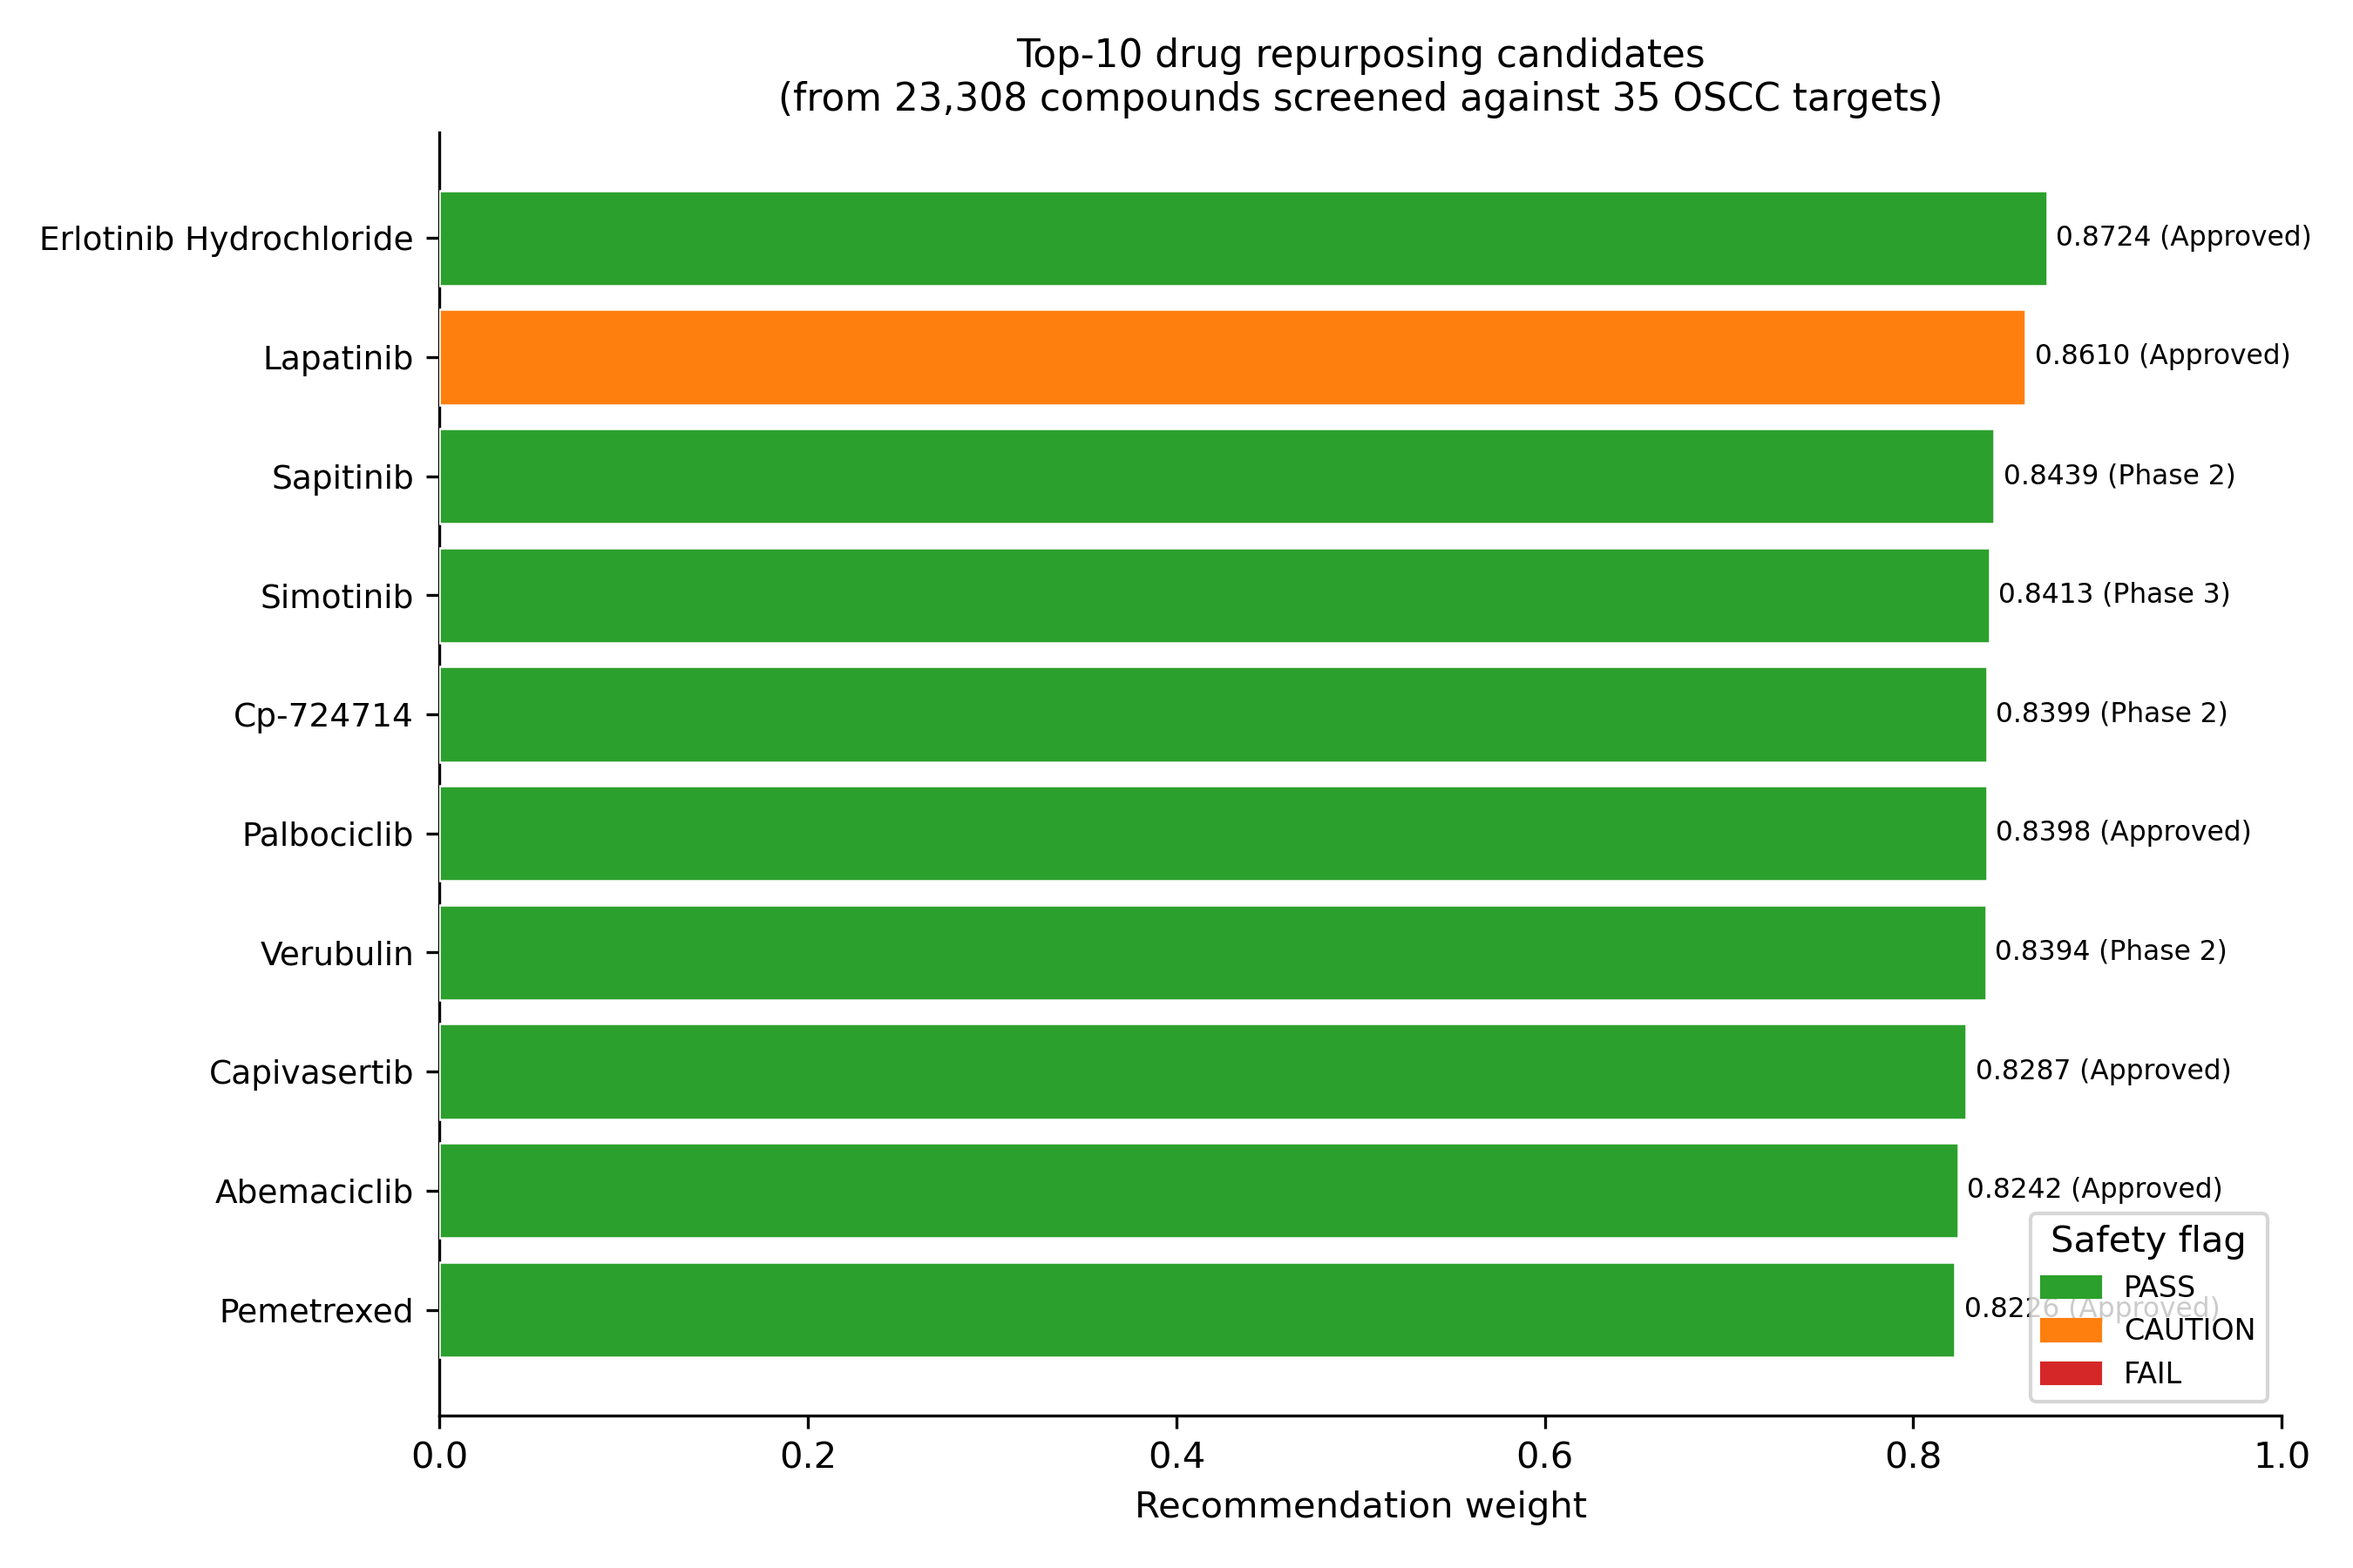
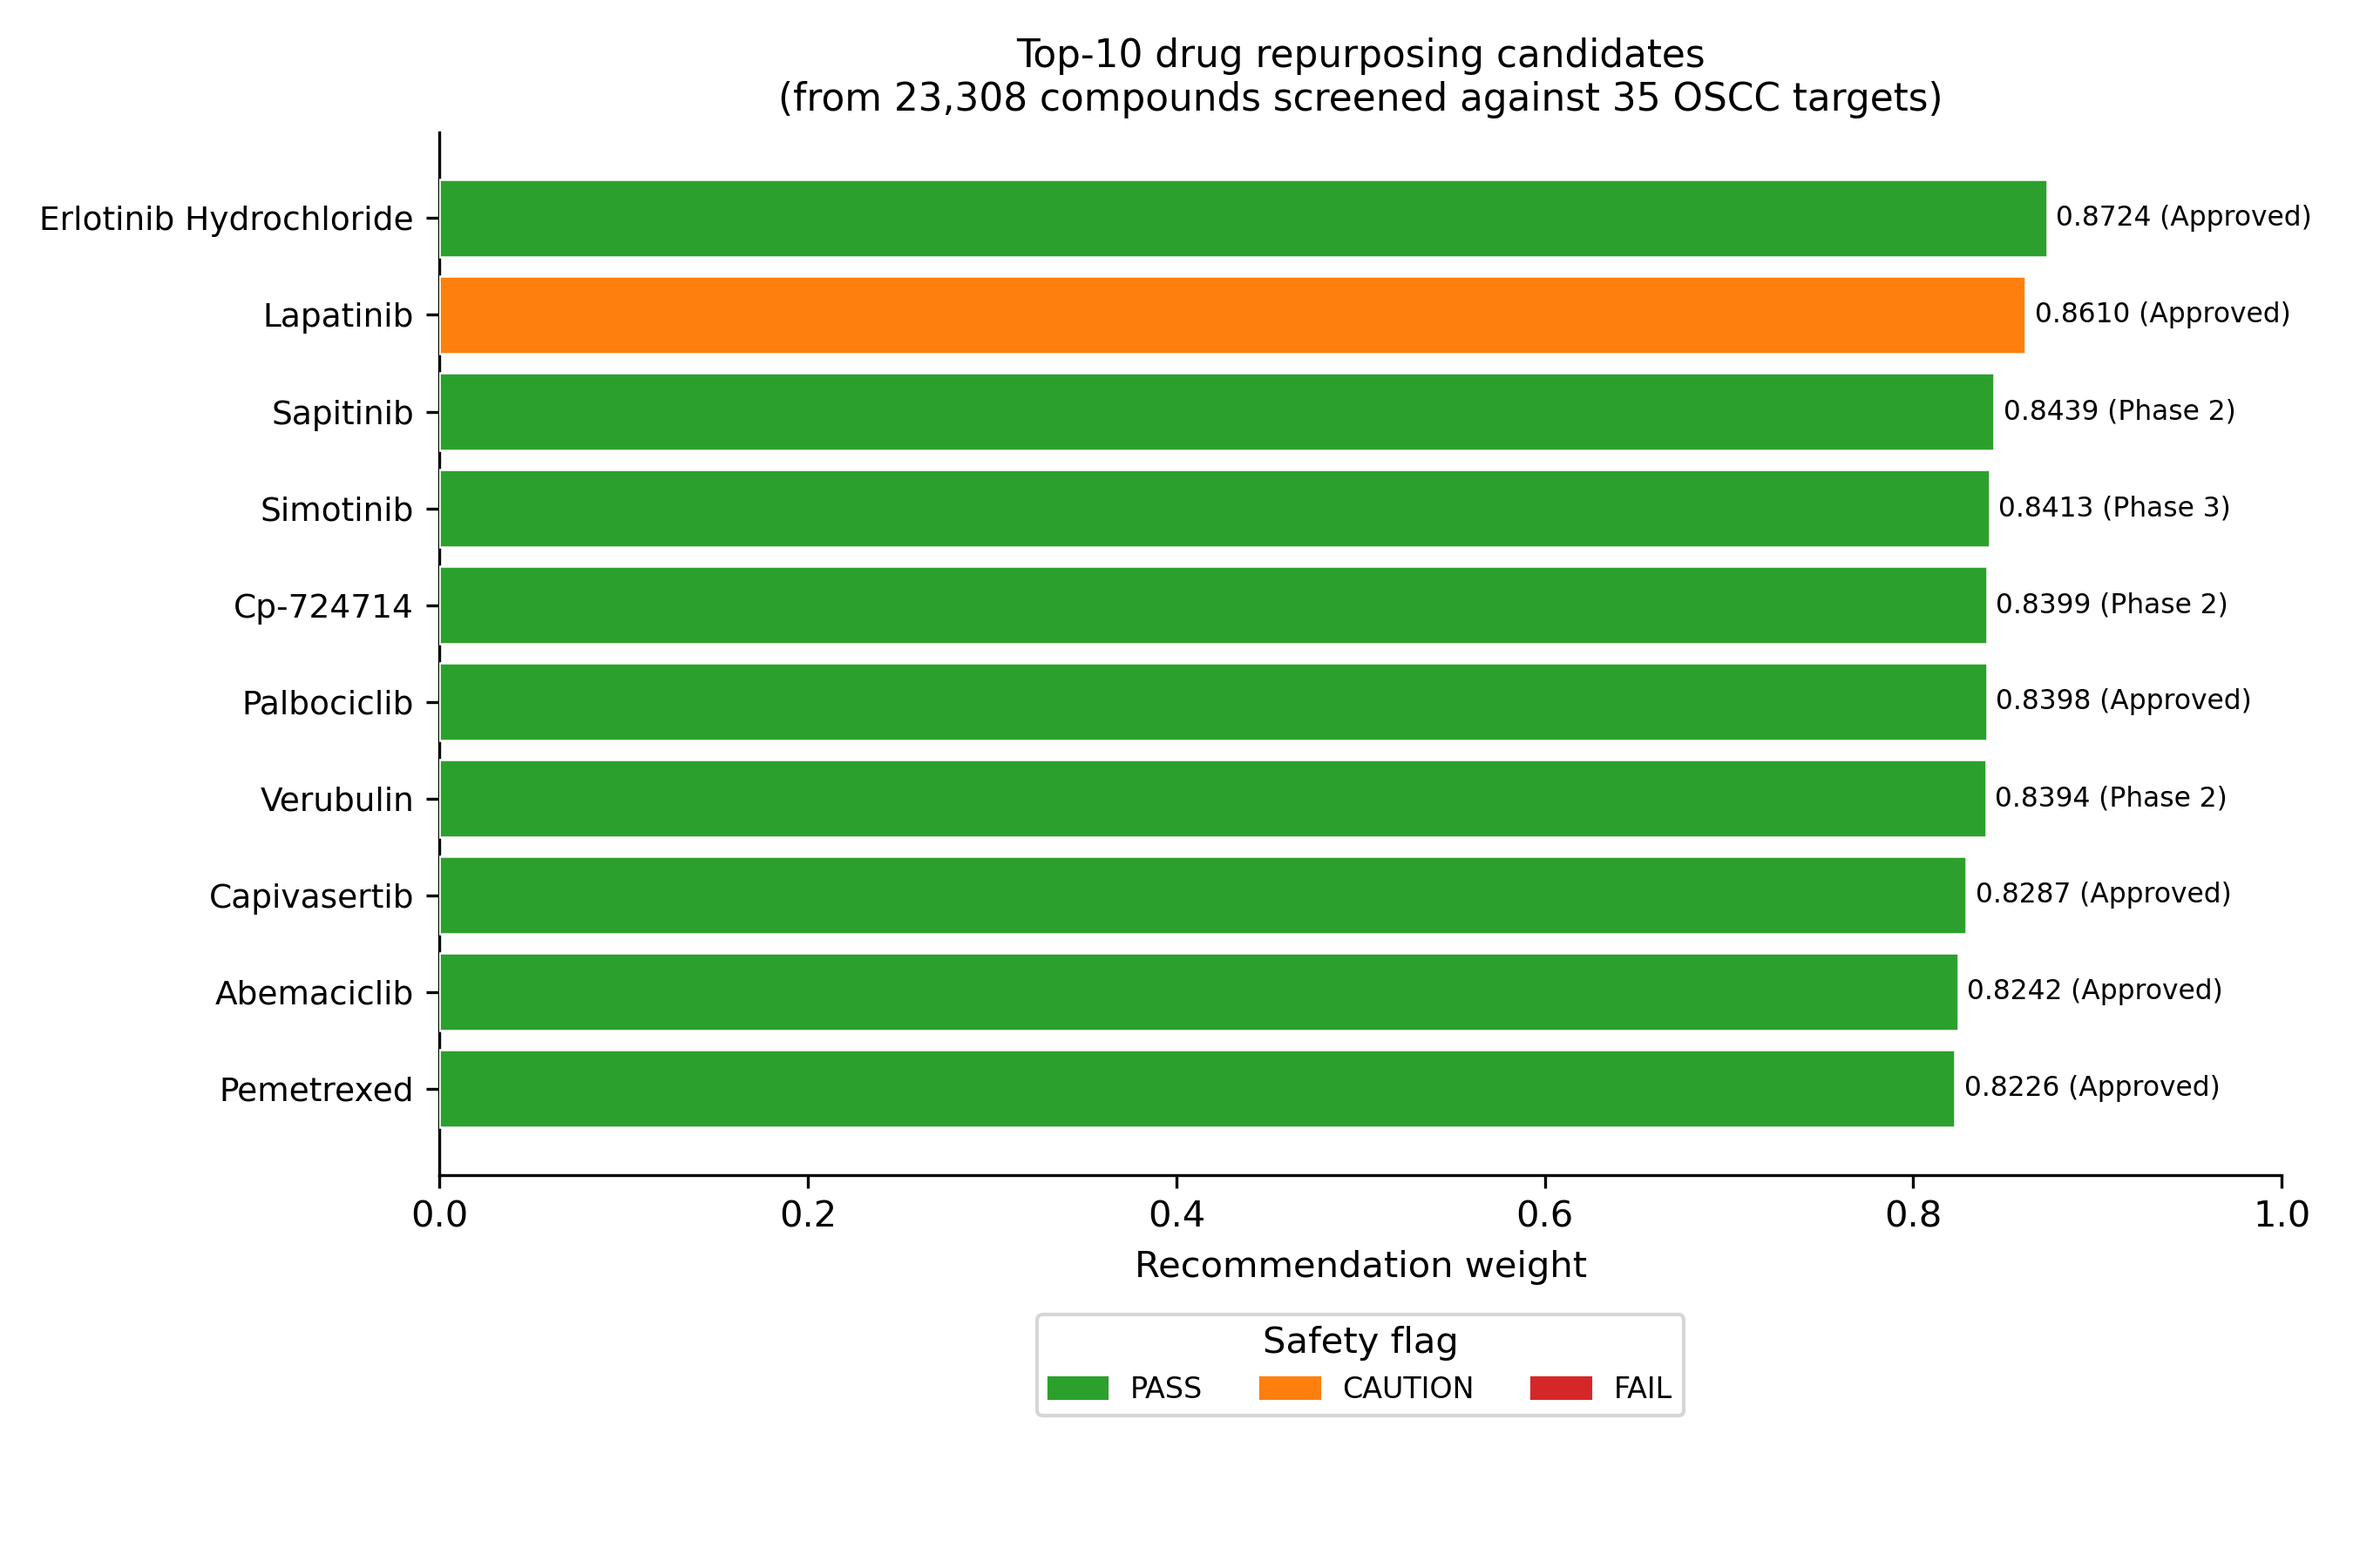
Fix Fig8 legend overlapping Pemetrexed data label
'Safety flag' legend was placed loc='lower right', directly on top of the
bottom bar's (Pemetrexed) recommendation-weight annotation. Moved legend
below the plot (horizontal, 3 columns) with extra bottom margin via
tight_layout(rect=...). Verified data (n_total_compounds, safety_summary,
validation stats, top3) against repurposing_summary.json -- all correct,
no other changes needed in the Systematic drug repurposing section.

diff --git a/documents/generate_repurposing_waterfall_fig.py b/documents/generate_repurposing_waterfall_fig.py
@@ -41,8 +41,9 @@ ax.spines["top"].set_visible(False)
 ax.spines["right"].set_visible(False)
 
 handles = [plt.Rectangle((0, 0), 1, 1, color=c) for c in FLAG_C.values()]
-ax.legend(handles, FLAG_C.keys(), loc="lower right", fontsize=8, title="Safety flag")
+ax.legend(handles, FLAG_C.keys(), loc="upper center", bbox_to_anchor=(0.5, -0.12),
+          ncol=3, fontsize=8, title="Safety flag", frameon=True)
 
-fig.tight_layout()
+fig.tight_layout(rect=[0, 0.06, 1, 1])
 fig.savefig(OUT, dpi=300, facecolor="white")
 print(f"Saved -> {OUT}")
